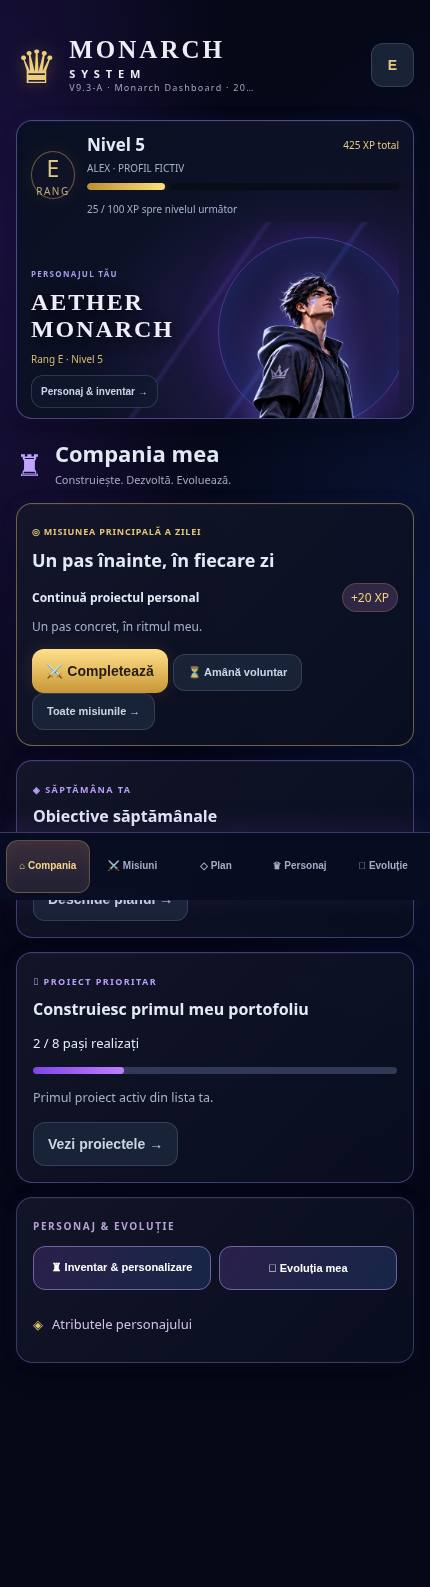
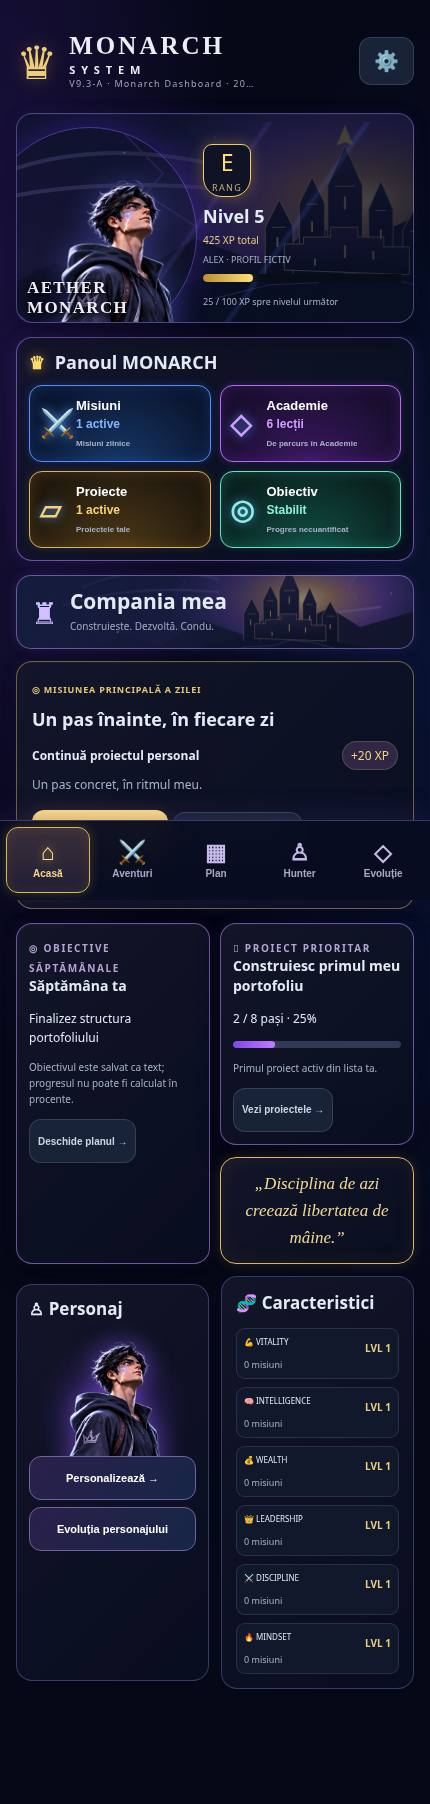
Finalize reference-aligned Monarch panel and cinematic mobile dashboard

diff --git a/app.js b/app.js
@@ -18,8 +18,8 @@ const level=()=>Math.floor(state.xp/100)+1;const ranks=['E','D','C','B','A','S']
 const counts=cat=>state.history.filter(x=>x.category===cat).length;
 function toast(msg){let el=document.createElement('div');el.className='toast';el.textContent=msg;document.body.append(el);setTimeout(()=>el.remove(),2700)}
 const CHARACTER_ART={E:'assets/characters/aether-e.webp',D:'assets/characters/aether-d.webp',C:'assets/characters/aether-c.webp',B:'assets/characters/aether-b.webp',A:'assets/characters/aether-a.webp',S:'assets/characters/aether-s.webp'};
-function header(){return `<header class="top monarch-brand"><span class="brand-crown" aria-hidden="true">♛</span><div><h1>MONARCH<span>SYSTEM</span></h1><small>${esc(window.MONARCH_BUILD)}</small></div><button class="brand-profile secondary" data-tab="hunterpage" aria-label="Personaj și inventar">${rank()}</button></header>`}
-function hero(){const r=rank();return `<section class="card hero monarch-hero" data-rank="${r}"><div class="hero-progress"><span class="rank-seal">${r}<small>RANG</small></span><div class="hero-progress-body"><div class="row"><strong>Nivel ${level()}</strong><span>${state.xp} XP total</span></div><small>${esc(state.player||'Monarch')}</small><div class="xpbar" role="progressbar" aria-label="XP către nivelul următor" aria-valuemin="0" aria-valuemax="100" aria-valuenow="${state.xp%100}"><div style="width:${state.xp%100}%"></div></div><small>${state.xp%100} / 100 XP spre nivelul următor</small></div></div><div class="character-stage"><div class="aether-orbit" aria-hidden="true"></div><div class="character-title"><span class="eyebrow">PERSONAJUL TĂU</span><h2>AETHER<br>MONARCH</h2><p>Rang ${r} · Nivel ${level()}</p><button class="secondary" data-tab="hunterpage">Personaj & inventar →</button></div><img class="aether-character" src="${CHARACTER_ART[r]||'assets/characters/aether-placeholder.svg'}" alt="AETHER MONARCH, rang ${r}" width="900" height="1200"></div></section>`}
+function header(){return `<header class="top monarch-brand"><span class="brand-crown" aria-hidden="true">♛</span><div><h1>MONARCH<span>SYSTEM</span></h1><small>${esc(window.MONARCH_BUILD)}</small></div><button class="brand-profile secondary" data-tab="evolution" aria-label="Evoluție și setări">⚙</button></header>`}
+function hero(){const r=rank();return `<section class="card hero monarch-hero" data-rank="${r}"><div class="hero-progress"><span class="rank-seal">${r}<small>RANG</small></span><div class="hero-progress-body"><div class="row"><strong>Nivel ${level()}</strong><span>${state.xp} XP total</span></div><small>${esc(state.player||'Monarch')}</small><div class="xpbar" role="progressbar" aria-label="XP către nivelul următor" aria-valuemin="0" aria-valuemax="100" aria-valuenow="${state.xp%100}"><div style="width:${state.xp%100}%"></div></div><small>${state.xp%100} / 100 XP spre nivelul următor</small></div></div><div class="character-stage"><div class="aether-orbit" aria-hidden="true"></div><div class="character-title"><span class="eyebrow">PERSONAJUL TĂU</span><h2>AETHER<br>MONARCH</h2><button class="secondary" data-tab="hunterpage">Personaj & inventar →</button></div><img class="aether-character" src="${CHARACTER_ART[r]||'assets/characters/aether-placeholder.svg'}" alt="AETHER MONARCH, rang ${r}" width="900" height="1200"></div></section>`}
 
 function debtCount(){return Object.values(state.debts).reduce((a,b)=>a+b,0)}
 function hunter(){return `<section class="card"><h2>🛡 HUNTER MODE</h2><div class="row"><strong>⚫ Shadow Debt</strong><span class="pill">${debtCount()} amânări</span></div><p class="muted">Amânările sunt urmărite numai dacă alegi explicit «Amână». Pauzele și misiunile de sănătate nu sunt penalizate.</p>${Object.entries(state.debts).filter(([k,v])=>v>0).map(([k,v])=>{let t=[...state.tasks,...state.customTasks].find(x=>x.id===k);return `<div class="quest"><strong>${esc(t?.name||'Misiune')}</strong><p>${v} amânări · ${v>=3?'🐉 BREAK THE CYCLE activ':v>=2?'⚔ Recuperare disponibilă':'Pas mic recomandat'}</p><button class="secondary" data-action="recover" data-id="${esc(k)}">✓ Am realizat un pas mic</button></div>`}).join('')||'<p class="muted">Nicio amânare înregistrată. Continuă în ritmul tău.</p>'}</section>`}
@@ -28,13 +28,14 @@ function unifiedPaths(){try{let a=core.read('monarch-awakening-v2');return (a.pa
 function unifiedGoals(){try{return core.read('monarch-planner-v25').goals||{}}catch{return {}}}
 function missionCards(){const icons={'Finanțe':'💰','Sport':'💪','Organizare':'📅'};return unifiedPaths().map(p=>`<article class="quest unified-mission"><div class="row"><strong>${icons[p]||'⚔'} ${esc(p)}</strong><span class="pill">+20 XP</span></div><p>${['Finanțe','Sport','Organizare','Disciplină'].includes(p)?'Lecție interactivă în 5 etape, cu exemple și verificări.':'Provocare ghidată în 3 etape.'} Recompensa se acordă o singură dată.</p><button data-life25-start="${esc(p)}">⚔ Începe misiunea</button></article>`).join('')}
 function characteristics(){const entries=[['vitality','💪','VITALITY'],['intelligence','🧠','INTELLIGENCE'],['wealth','💰','WEALTH'],['leadership','👑','LEADERSHIP'],['discipline','⚔','DISCIPLINE'],['mindset','🔥','MINDSET']];return `<section class="card"><h2>🧬 Caracteristici</h2><div class="stats">${entries.map(([id,icon,label])=>{const n=counts(id);const lvl=Math.floor(n/5)+1;return `<div class="stat"><span>${icon} ${label}</span><b>LVL ${lvl}</b><small>${n} ${n===1?'misiune':'misiuni'}</small></div>`}).join('')}</div></section>`}
-function home(){const g=unifiedGoals(),task=[...state.tasks,...state.customTasks].find(t=>!state.completed[today()+':'+t.id]&&!state.deferred[today()+':'+t.id]),project=state.bosses.find(b=>!b.claimed);return hero()+`<div class="company-heading"><span class="company-sigil" aria-hidden="true">♜</span><div><h2>Compania mea</h2><p>Construiește. Dezvoltă. Evoluează.</p></div></div><section class="card monarch-daily"><span class="eyebrow">◎ MISIUNEA PRINCIPALĂ A ZILEI</span><h2>${esc(g.today||task?.name||'Alege următorul pas')}</h2>${task?questItems([task]):'<p class="muted">Nu ai misiuni zilnice disponibile. Poți explora lecțiile din Aventură.</p>'}<button class="secondary" data-tab="adventure">Toate misiunile →</button></section><div class="monarch-goal-grid"><section class="card"><span class="eyebrow">◈ SĂPTĂMÂNA TA</span><h2>Obiective săptămânale</h2><p>${esc(g.week||'Nu ai stabilit încă un obiectiv săptămânal.')}</p><button class="secondary" data-tab="plan">Deschide planul →</button></section><section class="card"><span class="eyebrow">↗ PROIECT PRIORITAR</span><h2>${esc(project?.name||'Loc pentru următorul proiect')}</h2>${project?`<p>${project.progress} / ${project.target} pași realizați</p><div class="mini"><div style="width:${Math.min(100,project.progress/project.target*100)}%"></div></div><small>Primul proiect activ din lista ta.</small>`:'<p class="muted">Nu ai proiecte active.</p>'}<button class="secondary" data-adventure="projects">Vezi proiectele →</button></section></div>`+`<section class="card monarch-secondary"><span class="eyebrow">PERSONAJ & EVOLUȚIE</span><div class="secondary-links"><button data-tab="hunterpage">♜ Inventar & personalizare</button><button data-tab="evolution">↗ Evoluția mea</button></div><details><summary>Atributele personajului</summary>${characteristics()}</details></section>`}
+function monarchPanel(g,activeTasks){const available=lessons.filter(l=>!state.academy[l.id]?.done).length+(state.adaptive.promptcraft?.done?0:1),projects=state.bosses.filter(b=>!b.claimed).length;return `<section class="card monarch-panel" id="monarch-panel"><h2><span aria-hidden="true">♛</span> Panoul MONARCH</h2><div class="monarch-panel-grid"><button data-tab="adventure" data-summary="missions"><span class="panel-icon" aria-hidden="true">⚔</span><b>Misiuni</b><strong>${activeTasks.length} active</strong><small>Misiuni zilnice</small></button><button data-adventure="academy" data-summary="academy"><span class="panel-icon" aria-hidden="true">◇</span><b>Academie</b><strong>${available} lecții</strong><small>De parcurs în Academie</small></button><button data-adventure="projects" data-summary="projects"><span class="panel-icon" aria-hidden="true">▱</span><b>Proiecte</b><strong>${projects} active</strong><small>Proiectele tale</small></button><button data-tab="plan" data-summary="goal"><span class="panel-icon" aria-hidden="true">◎</span><b>Obiectiv</b><strong>${g.week?'Stabilit':'Nestabilit'}</strong><small>${g.week?'Progres necuantificat':'Planifică săptămâna'}</small></button></div></section>`}
+function home(){const g=unifiedGoals(),activeTasks=[...state.tasks,...state.customTasks].filter(t=>!state.completed[today()+':'+t.id]&&!state.deferred[today()+':'+t.id]),task=activeTasks[0],project=state.bosses.find(b=>!b.claimed);return hero()+monarchPanel(g,activeTasks)+`<section class="company-heading company-banner"><span class="company-sigil" aria-hidden="true">♜</span><div><h2>Compania mea</h2><p>Construiește. Dezvoltă. Condu.</p></div></section><section class="card monarch-daily"><span class="eyebrow">◎ MISIUNEA PRINCIPALĂ A ZILEI</span><h2>${esc(g.today||task?.name||'Alege următorul pas')}</h2>${task?questItems([task]):'<p class="muted">Nu ai misiuni zilnice disponibile. Explorează lecțiile din Aventuri.</p>'}<button class="secondary" data-tab="adventure">Toate misiunile →</button></section><div class="monarch-company-grid"><section class="card weekly-goal"><span class="eyebrow">◎ OBIECTIVE SĂPTĂMÂNALE</span><h2>Săptămâna ta</h2><p>${esc(g.week||'Nu ai stabilit încă un obiectiv săptămânal.')}</p><small>${g.week?'Obiectivul este salvat ca text; progresul nu poate fi calculat în procente.':'Adaugă un obiectiv în planificare.'}</small><button class="secondary" data-tab="plan">Deschide planul →</button></section><div class="project-column"><section class="card priority-project"><span class="eyebrow">↗ PROIECT PRIORITAR</span><h2>${esc(project?.name||'Următorul tău proiect')}</h2>${project?`<p>${project.progress} / ${project.target} pași · ${Math.min(100,Math.round(project.progress/project.target*100))}%</p><div class="mini"><div style="width:${Math.min(100,project.progress/project.target*100)}%"></div></div><small>Primul proiect activ din lista ta.</small>`:'<p class="muted">Nu ai proiecte active.</p>'}<button class="secondary" data-adventure="projects">Vezi proiectele →</button></section><blockquote class="card monarch-quote">„Disciplina de azi creează libertatea de mâine.”</blockquote></div></div><section class="monarch-secondary"><section class="card character-personalize"><h2>♙ Personaj</h2><div class="portrait-stage"><img class="aether-portrait" src="${CHARACTER_ART[rank()]||'assets/characters/aether-placeholder.svg'}" alt="Portret AETHER MONARCH" width="900" height="1200"></div><div class="secondary-links"><button data-tab="hunterpage">Personalizează →</button><button data-tab="evolution">Evoluția personajului</button></div></section><section class="monarch-attributes">${characteristics()}</section></section>`}
 
 function adventure(){
 const sections=[['missions','⚔ Misiuni'],['academy','📚 Academie'],['projects','🐉 Proiecte']];
 const nav=`<div class="adventure-switch" role="group" aria-label="Categorii Aventură">${sections.map(([id,label])=>`<button type="button" data-adventure="${id}" aria-pressed="${adventureSection===id}" class="${adventureSection===id?'selected':''}">${label}</button>`).join('')}</div>`;
 let content='';
-if(adventureSection==='missions')content=`<section class="card"><span class="eyebrow">⚔ MISIUNILE TALE</span><h2>Următoarele provocări</h2><p class="muted">Alege o misiune pentru a parcurge pașii ghidați.</p>${missionCards()}</section>`;
+if(adventureSection==='missions')content=quests()+`<section class="card"><span class="eyebrow">⚔ MISIUNILE TALE</span><h2>Următoarele provocări</h2><p class="muted">Alege o misiune pentru a parcurge pașii ghidați.</p>${missionCards()}</section>`;
 else if(adventureSection==='academy')content=academy();
 else content=`<section class="card"><span class="eyebrow">🐉 PROIECTE ȘI BOSS</span><h2>Provocările tale pe termen lung</h2>${bossItems()||'<p class="muted">Nu ai proiecte active.</p>'}</section><section class="card"><h2>➕ Proiect nou</h2><form id="bossform"><label>Nume proiect<input name="name" maxlength="65" required placeholder="Ex: Finalizez un curs"></label><label>Număr etape (1–30)<input name="target" type="number" min="1" max="30" value="5" required></label><button>Adaugă proiectul</button></form></section>`;
 return `<section class="adventure-head"><span class="eyebrow">🗺 CAMPANIA TA</span><h2>⚔ Misiuni</h2><p class="muted">Misiuni, învățare și proiecte — o singură destinație.</p>${nav}</section>${content}`;
@@ -73,7 +74,7 @@ function courseAdvance(){let x=courseState();if(x.stage<4){x.stage++;save();rend
 let activeLesson=null;
 function academy(){let done=lessons.filter(l=>state.academy[l.id]?.done).length;return `<section class="card"><h2>📚 Academia Hunter</h2><p class="note">Învață în aplicație, răspunde la întrebări și câștigă XP o singură dată pentru fiecare lecție finalizată.</p><div class="row"><strong>Progres academie</strong><span class="pill">${done}/${lessons.length} lecții</span></div><div class="mini"><div style="width:${100*done/lessons.length}%"></div></div><button class="secondary" id="aw-open">🗺 Lecțiile traseului personalizat</button></section><section class="card"><p class="eyebrow">🧠 ANTRENAMENT AVANSAT</p><h2>Arta prompturilor</h2><p>Lecție aprofundată: teorie, exerciții ghidate, prompt scris de tine și proiect BOSS. Exerciții de aprofundare și proiect practic.</p><button data-action="opencourse">⚔ ${courseState().done?'Revizuiește':'Începe'} PROMPT ENGINEERING</button></section>${lessons.map(l=>`<section class="card"><small class="eyebrow">${esc(l.tag)}</small><h2>${esc(l.title)}</h2><p class="muted">${state.academy[l.id]?.done?'🏆 Finalizată':'⚔ Lecție interactivă'} · ${l.xp} XP</p><button data-action="openlesson" data-id="${l.id}">${state.academy[l.id]?.done?'📖 Recitește':'⚔ Intră în misiune'}</button></section>`).join('')}<section class="card"><h2>🐉 BOSS: ACADEMY INITIATE</h2><p>Finalizează toate cele ${lessons.length} lecții. Nu se acordă XP suplimentar pentru repetări.</p><button data-action="academyboss" ${done!==lessons.length||state.academy.bossClaimed?'disabled':''}>${state.academy.bossClaimed?'🏆 BOSS învins':'🏆 Revendică +100 XP'}</button></section>`}
 function lessonView(){let l=lessons.find(x=>x.id===activeLesson);if(!l){tab='adventure';adventureSection='academy';return adventure()}let st=state.academy[l.id]||{};return `<section class="card"><button class="secondary" data-action="backacademy">← Înapoi</button><p class="eyebrow">${esc(l.tag)}</p><h2>⚔ ${esc(l.title)}</h2><p class="lesson-text">${esc(l.read)}</p><h3>🧩 Provocare</h3><p>${esc(l.question)}</p>${l.choices.map((c,i)=>`<button class="choice ${st.done&&i===l.answer?'correct':''}" data-action="answer" data-id="${l.id}" data-choice="${i}" ${st.done?'disabled':''}>${String.fromCharCode(65+i)}. ${esc(c)}</button>`).join('')}${st.done?`<p class="success">🏆 Lecție finalizată! ${esc(l.why)}</p>`:'<p class="muted">Poți încerca din nou dacă răspunsul nu este corect. Nu pierzi XP.</p>'}</section>`}
-const views={home,adventure,plan:planUnified,hunterpage:hunterUnified,evolution:evolutionUnified,academy,lesson:lessonView,course};function render(){document.getElementById('app').innerHTML=header()+views[tab]()+`<nav class="tabs unified-tabs">${[['home','⌂ Compania'],['adventure','⚔ Misiuni'],['plan','◇ Plan'],['hunterpage','♛ Personaj'],['evolution','↗ Evoluție']].map(([k,n])=>`<button data-tab="${k}" class="${tab===k?'active':''}">${n}</button>`).join('')}</nav>`;document.querySelectorAll('.aether-character').forEach(img=>{img.addEventListener('error',()=>{img.src='assets/characters/aether-placeholder.svg';img.alt='AETHER MONARCH — ilustrație provizorie, rang '+rank();},{once:true});});}
+const views={home,adventure,plan:planUnified,hunterpage:hunterUnified,evolution:evolutionUnified,academy,lesson:lessonView,course};function render(){document.getElementById('app').innerHTML=header()+views[tab]()+`<nav class="tabs unified-tabs">${[['home','Acasă'],['adventure','Aventuri'],['plan','Plan'],['hunterpage','Hunter'],['evolution','Evoluție']].map(([k,n])=>`<button data-tab="${k}" class="${tab===k?'active':''}"><span class="nav-symbol" aria-hidden="true">${({home:"⌂",adventure:"⚔",plan:"▦",hunterpage:"♙",evolution:"◇"})[k]}</span><span>${n}</span></button>`).join('')}</nav>`;document.querySelectorAll('.aether-character,.aether-portrait').forEach(img=>{img.addEventListener('error',()=>{img.src='assets/characters/aether-placeholder.svg';img.alt='AETHER MONARCH — ilustrație provizorie, rang '+rank();},{once:true});});}
 function award(name,xp,category){state.xp+=xp;state.history.push({date:new Date().toISOString(),name,xp,category});save();render();toast(`✨ ${name}: +${xp} XP`)}
 document.addEventListener('click',e=>{let b=e.target.closest('button');if(!b)return;if(b.dataset.adventure){adventureSection=b.dataset.adventure;tab='adventure';render();scrollTo(0,0);return}if(b.dataset.tab){tab=b.dataset.tab;if(tab==='adventure')adventureSection='missions';render();scrollTo(0,0);return}let a=b.dataset.action,id=b.dataset.id;if(a==='opencourse'){tab='course';adventureSection='academy';render();scrollTo(0,0);return}else if(a==='diag'){let x=courseState();if(x.stage!==0)return;if(b.dataset.choice==='0'){x.tries=0;courseAdvance()}else{ x.tries++;save();toast('Indiciu: gândește-te ce informații îi lipsesc celui care scrie reclama.');render()}return}else if(a==='coursenext'){if(courseState().stage===1)courseAdvance();return}else if(a==='guided'){let x=courseState();if(x.stage!==2)return;if(b.dataset.choice==='1'){courseAdvance()}else{x.tries++;save();toast('Caută cererea care indică publicul, lungimea și un exemplu.');render()}return}else if(a==='openlesson'){activeLesson=id;tab='lesson';render();scrollTo(0,0);return}else if(a==='backacademy'){tab='adventure';adventureSection='academy';render();scrollTo(0,0);return}else if(a==='answer'){let l=lessons.find(x=>x.id===id);if(!l||state.academy[id]?.done)return;if(Number(b.dataset.choice)!==l.answer)return toast('Mai încearcă! Recitește explicația.');state.academy[id]={done:true,completedAt:new Date().toISOString()};award('ACADEMY: '+l.title,l.xp,l.tag.startsWith('🧠')?'intelligence':'wealth');return}else if(a==='academyboss'){if(lessons.every(l=>state.academy[l.id]?.done)&&!state.academy.bossClaimed){state.academy.bossClaimed=true;award('BOSS: ACADEMY INITIATE',100,'intelligence')}return}else if(a==='defer'){let t=[...state.tasks,...state.customTasks].find(t=>t.id===id);if(!t||!['intelligence','wealth','leadership','discipline'].includes(t.category))return;let key=today()+':'+id;if(state.deferred[key]||state.completed[key])return toast('Misiunea a fost deja gestionată astăzi');state.deferred[key]=true;state.debts[id]=(state.debts[id]||0)+1;save();render();toast(state.debts[id]>=3?'🐉 BREAK THE CYCLE: începe cu un pas mic':'Amânare înregistrată fără pierdere de XP');}else if(a==='recover'){if(!(state.debts[id]>0))return;let key=today()+':recover:'+id;if(state.recovery[key])return toast('Ai recuperat deja astăzi');state.recovery[key]=true;state.debts[id]--;award('BREAK THE CYCLE — pas mic',10,'discipline');}else if(a==='remove'){if(!confirm('Ștergi această misiune personalizată?'))return;state.customTasks=state.customTasks.filter(t=>t.id!==id);save();render();}else if(a==='complete'){let t=[...state.tasks,...state.customTasks].find(t=>t.id===id);if(!t||state.completed[`${today()}:${id}`]||state.deferred[`${today()}:${id}`])return;state.completed[`${today()}:${id}`]=true;award(t.name,t.xp,t.category)}else if(a==='bossstep'){let x=state.bosses.find(b=>b.id===id);if(x&&x.progress<x.target){x.progress++;save();render();toast('Pas BOSS înregistrat')}}else if(a==='bossclaim'){let x=state.bosses.find(b=>b.id===id);if(x&&x.progress>=x.target&&!x.claimed){x.claimed=true;award(`BOSS: ${x.name}`,x.reward,'discipline')}}else if(a==='rename'){state.player=document.getElementById('playername').value.trim()||'PLAYER 001';save();render()}else if(a==='export'){let blob=new Blob([JSON.stringify(state,null,2)],{type:'application/json'}),u=URL.createObjectURL(blob),a=document.createElement('a');a.href=u;a.download='monarch-backup-'+today()+'.json';a.click();setTimeout(()=>URL.revokeObjectURL(u),1000)}else if(a==='import'){document.getElementById('importfile').click()}});
 document.addEventListener('submit',e=>{if(['courseform','bossacademyform'].includes(e.target.id)){e.preventDefault();let x=courseState(),v=String(new FormData(e.target).get('prompt')||'').trim();if(e.target.id==='courseform'&&x.stage===3){x.notes=v;save();if(v.length<70)return toast('Adaugă mai multe detalii despre sarcină, context și format.');courseAdvance();return}if(e.target.id==='bossacademyform'&&x.stage===4&&!x.done){if(v.length<110)return toast('Descrie mai clar proiectul și cerințele.');x.result=v;x.done=true;award('ADAPTIVE: PROMPT ARCHITECT',module13.xp,'intelligence');return}return}if(!['taskform','healthform','financeform','bossform'].includes(e.target.id))return;e.preventDefault();let d=Object.fromEntries(new FormData(e.target).entries());if(e.target.id==='bossform'){if(state.bosses.filter(b=>!b.claimed).length>=5)return toast('Maximum 5 BOSS activi');state.bosses.push({id:'boss-'+Date.now(),name:d.name.trim(),target:Math.min(30,Math.max(1,Number(d.target)||5)),progress:0,reward:150,claimed:false});toast('BOSS adăugat');}if(e.target.id==='taskform'){if(!d.name.trim())return;state.customTasks.push({id:'custom-'+Date.now(),name:d.name.trim(),detail:d.detail,xp:15,category:d.category,daily:true});toast('Misiune adăugată')}if(e.target.id==='healthform'){if(![d.activity,d.food,d.sleep,d.weight].some(x=>x.trim()))return toast('Completează cel puțin un câmp');state.logs.push({...d,date:new Date().toISOString()});toast('Jurnal salvat')}if(e.target.id==='financeform'){state.finance.push({note:d.note,date:new Date().toISOString()});toast('Notă salvată')}save();render()});

diff --git a/style.css b/style.css
@@ -93,3 +93,8 @@ html{scroll-padding-bottom:180px}
 body{background:radial-gradient(ellipse at 0 15%,#5025a047,transparent 38%),radial-gradient(ellipse at 100% 38%,#153b9738,transparent 42%),#050817}.monarch-brand{display:flex;gap:12px;align-items:center;padding:16px 0 8px}.brand-crown{font-size:46px;line-height:1;color:#edcf7b;text-shadow:0 0 18px #e9ba4e50}.monarch-brand h1{font-family:Georgia,serif;font-size:25px;letter-spacing:.12em;margin:0;color:#eeedf5}.monarch-brand h1 span{display:block;font-family:system-ui;font-size:11px;letter-spacing:.53em;margin-top:2px}.monarch-brand small{font-size:9px;letter-spacing:.14em;color:#a6a5ba}.brand-profile{margin-left:auto!important;min-width:43px;color:#e3ca82!important}.card{background:linear-gradient(135deg,#15172bdf,#090e20ed);border:1px solid #6f6bb575;box-shadow:inset 0 1px 0 #b5a5ff0c,0 0 18px #6d49d915,0 12px 25px #0005;border-radius:16px}.card h2{font-size:17px}.monarch-hero{padding:12px 14px 0;margin-top:12px;background:radial-gradient(ellipse at 75% 75%,#46339575,transparent 55%),linear-gradient(130deg,#0a1023,#101227);border-color:#8a79db80}.hero-progress{display:flex;gap:12px;align-items:center;position:relative;z-index:3}.rank-seal{width:44px;height:48px;flex-shrink:0;border-radius:50%;font-size:23px;background:#101325;box-shadow:0 0 20px #d4ab3d16}.hero-progress-body{flex:1;min-width:0}.hero-progress .row{gap:8px;align-items:center}.hero-progress strong{font-size:17px}.hero-progress .row span{font-size:10px;color:#e5cd82}.hero-progress small{font-size:10px}.hero-progress .xpbar{margin:7px 0;height:7px}.xpbar>div{background:linear-gradient(90deg,#ba8e32,#ffdf79);box-shadow:0 0 12px #f6ce5b55}.character-stage{height:196px;display:block;isolation:isolate;overflow:hidden;margin-top:5px}.aether-character{position:absolute;width:345px;max-width:none;height:460px;right:-76px;top:-82px;object-fit:contain;z-index:1;filter:drop-shadow(0 0 15px #7375ff60)!important}.character-title{position:absolute;left:0;top:39px;z-index:2;max-width:53%}.character-title .eyebrow{font-size:8px;color:#aa9be9}.character-title h2{font-family:Georgia,serif;font-size:24px;letter-spacing:.08em;line-height:1.14;margin:8px 0;color:#eeedf9;text-shadow:0 2px 16px #000}.character-title p{font-size:10px;color:#d8bd6d;margin:8px 0}.character-title button{font-size:10px;padding:7px 9px;min-height:33px;background:#11172dd9}.aether-orbit{width:190px;height:190px;right:-9px;top:15px;border-color:#8e6fff66;box-shadow:0 0 45px #652dce55,inset 0 0 35px #274bd34a}.character-stage::after{content:'';position:absolute;inset:0;z-index:0;pointer-events:none;background:linear-gradient(125deg,transparent 46%,#8d60f026 47%,transparent 48%,transparent 65%,#4d72f52e 66%,transparent 67%)}.company-heading{display:flex;align-items:center;gap:12px;margin:19px 0 12px}.company-sigil{font-size:30px;color:#c1a2ff}.company-heading h2{font-size:22px;margin:0}.company-heading p{font-size:11px;color:#a5a9c1;margin:4px 0}.monarch-shortcuts{display:none}.hunter24-home{display:none}.monarch-daily{border-color:#a08c53aa;padding:15px;margin-top:0}.monarch-daily>.eyebrow{color:#e3c876;font-size:9px;letter-spacing:.09em}.monarch-daily>h2{font-size:18px;margin:9px 0}.monarch-daily .quest .row strong{font-size:12px}.monarch-daily .quest p{font-size:12px;line-height:1.5}.monarch-daily .quest .pill{color:#f3d47c;background:#302747;border:1px solid #98774d66}.monarch-daily button[data-action=complete]{background:linear-gradient(#ffe08c,#c99636);color:#251c13;font-weight:750;box-shadow:0 0 18px #dca83e22}.monarch-daily .secondary{font-size:11px;min-height:37px}.monarch-goal-grid .card{padding:16px;border-color:#7564bd88}.monarch-goal-grid .eyebrow{color:#b6a0f2;font-size:9px}.monarch-goal-grid h2{font-size:16px;margin-top:8px}.monarch-goal-grid p{font-size:13px;line-height:1.6}.mini>div{background:linear-gradient(90deg,#8144e8,#c27eff);box-shadow:0 0 10px #9457e666}.monarch-secondary{padding:16px}.secondary-links{display:grid;grid-template-columns:1fr 1fr;gap:8px;margin:12px 0}.secondary-links button{font-size:11px;background:linear-gradient(125deg,#2b204b,#162647);border:1px solid #71649e}.monarch-secondary summary{cursor:pointer;font-size:13px;color:#cfbfeb;min-height:44px;display:flex;align-items:center}.monarch-secondary summary::before{content:'◈';margin-right:9px;color:#e0c370}.monarch-secondary .card{box-shadow:none;padding:12px;margin:8px 0}.unified-tabs{background:#080d20f5!important;box-shadow:0 -5px 28px #6440a52e!important;border-top:1px solid #7163a980!important}.unified-tabs button{background:transparent;color:#a8a9c6;font-size:10px!important;min-height:46px}.unified-tabs button.active{color:#f3d689;background:linear-gradient(#3a2e3b,#211f34);border:1px solid #b7985666;box-shadow:inset 0 0 15px #e0bd3e0c}.life25-panel,.hunter23-panel{background:linear-gradient(140deg,#19152b,#0c1428);border-color:#8c6bd2}.quest,.unified-mission{border-color:#6f60a755;background:#16182b7d}.adventure-switch button.selected{background:linear-gradient(120deg,#523181,#213e78)}
 @media(min-width:600px){.character-stage{height:240px}.aether-character{width:405px;height:540px;right:-20px;top:-98px}.character-title{left:22px;top:50px}.character-title h2{font-size:34px}.aether-orbit{right:65px;width:220px;height:220px}.monarch-goal-grid{grid-template-columns:1fr 1fr}}
 .monarch-brand small{display:block;max-width:185px;white-space:nowrap;overflow:hidden;text-overflow:ellipsis}
+
+/* Final approved hierarchy: cinematic hero, data-driven 2×2 Monarch panel. */
+.monarch-hero{padding:8px 10px 0;min-height:210px;background:linear-gradient(90deg,#090d2280,#080e24c9),url('assets/monarch-castle.svg') center/cover}.monarch-hero .character-stage{height:200px;margin:0;overflow:visible}.monarch-hero .hero-progress{position:absolute;left:47%;right:10px;top:30px;display:block;z-index:4}.monarch-hero .rank-seal{height:53px;width:48px;margin-bottom:9px;border-radius:9px 9px 19px 19px;border:1px solid #efcd67;color:#ffdc6f;box-shadow:0 0 15px #c59b3366}.hero-progress .hero-progress-body>.row{display:block}.hero-progress strong{font-size:18px;display:block}.hero-progress .row span{display:block;margin-top:5px;font-size:10px}.hero-progress small{font-size:9px;line-height:1.5}.hero-progress .xpbar{height:8px}.monarch-hero .aether-character{width:410px;height:547px;left:-133px;right:auto;top:-99px;z-index:1}.monarch-hero .aether-orbit{left:-45px;right:auto;top:5px;width:215px;height:215px;border-color:#7354dc99;box-shadow:0 0 35px #6030ed55}.monarch-hero .character-title{left:0;top:auto;bottom:5px;max-width:46%;pointer-events:none}.character-title .eyebrow,.character-title button{display:none}.character-title h2{font-size:17px;margin:0;text-shadow:0 2px 5px #000,0 0 14px #000}.monarch-brand{padding:12px 0 5px}.brand-profile{font-size:20px}.monarch-panel{padding:12px;margin:12px 0 14px;border-color:#9d7be2a0;box-shadow:0 0 16px #8945d52e,inset 0 0 18px #6f56c50a}.monarch-panel h2{font-size:18px;margin:0 0 10px}.monarch-panel h2>span{color:#ffda6c;margin-right:5px;text-shadow:0 0 12px #e9b53d99}.monarch-panel-grid{display:grid;grid-template-columns:1fr 1fr;gap:9px}.monarch-panel-grid button{position:relative;display:grid;grid-template-columns:36px 1fr;text-align:left;align-items:center;padding:10px;min-height:77px;background:radial-gradient(ellipse at 50% 120%,#2363ab7a,transparent 80%),#0b1631;border:1px solid #588ef4;border-radius:13px;box-shadow:inset 0 0 13px #2559ba55,0 0 9px #236deb44}.panel-icon{grid-row:1/4;font-size:28px;color:#b4d2ff;text-shadow:0 0 10px #4d8be8}.monarch-panel-grid b{font-size:13px;font-weight:650}.monarch-panel-grid strong{font-size:12px;color:#80b5ff}.monarch-panel-grid small{font-size:8px;line-height:1.4;margin-top:3px}.monarch-panel-grid [data-summary=academy]{background:radial-gradient(ellipse at 50% 120%,#6b24a778,transparent 80%),#180e2e;border-color:#ad71ee;box-shadow:inset 0 0 14px #6e2cad55,0 0 10px #b155ec33}.monarch-panel-grid [data-summary=academy] strong,.monarch-panel-grid [data-summary=academy] .panel-icon{color:#ce9fff}.monarch-panel-grid [data-summary=projects]{background:radial-gradient(ellipse at 50% 120%,#86632475,transparent 80%),#21190e;border-color:#d7b55e;box-shadow:inset 0 0 14px #ae722f44,0 0 10px #e6b55022}.monarch-panel-grid [data-summary=projects] strong,.monarch-panel-grid [data-summary=projects] .panel-icon{color:#f5d279}.monarch-panel-grid [data-summary=goal]{background:radial-gradient(ellipse at 50% 120%,#188f7a75,transparent 80%),#0a211e;border-color:#62e6c0;box-shadow:inset 0 0 14px #39bca944,0 0 10px #3cddb422}.monarch-panel-grid [data-summary=goal] strong,.monarch-panel-grid [data-summary=goal] .panel-icon{color:#8df2d5}.company-banner{position:relative;min-height:64px;margin:12px 0;padding:11px 14px;border:1px solid #9c83db99;border-radius:15px;background:linear-gradient(90deg,#141c3df2,#0b102252),url('assets/monarch-castle.svg') 60% 57%/cover;box-shadow:0 0 12px #7954be33;overflow:hidden}.company-banner h2{font-size:21px;position:relative;z-index:1}.company-banner p{font-size:10px;position:relative;z-index:1}.company-banner .company-sigil{color:#d0c0ff}.monarch-company-grid{display:grid;grid-template-columns:1fr;gap:12px;margin:12px 0}.monarch-company-grid .card{margin:0;padding:15px}.monarch-company-grid h2{font-size:16px;line-height:1.45}.monarch-company-grid p{font-size:13px;line-height:1.6}.monarch-company-grid small{font-size:10px;line-height:1.6;display:block}.monarch-company-grid button{margin-top:12px;font-size:11px}.weekly-goal{border-color:#ab83ee99}.priority-project{border-color:#ad7ff299}.project-column{display:grid;gap:12px}.monarch-quote{border-color:#dbb46a!important;color:#efd997;font-family:Georgia,serif;font-style:italic;text-align:center;font-size:17px;line-height:1.6;box-shadow:inset 0 0 20px #ae69341c,0 0 13px #c4973e2e}.monarch-secondary{background:none;border:0;padding:0;display:grid;gap:12px}.character-personalize{position:relative;overflow:hidden;margin:0;padding:14px;min-height:238px}.character-personalize h2{position:relative;z-index:2;margin:0}.portrait-stage{height:135px;position:relative;overflow:hidden;background:radial-gradient(ellipse at 50% 70%,#6c3acf55,transparent 65%)}.aether-portrait{position:absolute;width:330px;max-width:none;height:440px;left:50%;transform:translateX(-50%);top:-106px;object-fit:contain;filter:drop-shadow(0 0 12px #8b57ed99)}.character-personalize .secondary-links{position:relative;z-index:2;display:grid;grid-template-columns:1fr;margin:0;gap:7px}.monarch-attributes>.card{margin:0;padding:14px}.monarch-attributes .stats{display:grid;grid-template-columns:1fr;gap:8px}.monarch-attributes .stat{display:grid;grid-template-columns:1fr auto;gap:3px;text-align:left;padding:9px;background:#11182c;border:1px solid #7370aa44;border-radius:9px}.monarch-attributes .stat span{font-size:10px}.monarch-attributes .stat b{font-size:12px;color:#e7ce82}.monarch-attributes .stat small{font-size:9px;grid-column:1/-1}.monarch-daily .quest button{min-height:44px}.unified-tabs{padding-top:6px!important;padding-bottom:calc(7px + env(safe-area-inset-bottom,0px))!important}.unified-tabs button{display:grid;align-content:center;justify-items:center;gap:3px;font-size:10px!important;min-height:52px;line-height:1.2}.nav-symbol{font-size:23px;line-height:1.1;color:#c5b9e7}.unified-tabs button.active .nav-symbol{color:#ffe58e;text-shadow:0 0 10px #dfb14f}.unified-tabs button.active{border-color:#d8b458;box-shadow:0 0 12px #d8ac4440,inset 0 0 12px #e0b93a1c}#app{padding-bottom:calc(115px + env(safe-area-inset-bottom,0px))!important}
+@media(min-width:390px){.monarch-company-grid{grid-template-columns:1fr 1fr;gap:10px}.monarch-company-grid .card{padding:12px}.monarch-company-grid h2{font-size:14px}.monarch-company-grid p{font-size:12px}.monarch-company-grid button{font-size:10px;padding:8px}.monarch-secondary{grid-template-columns:1fr 1fr}.monarch-attributes .stat{padding:7px}.monarch-attributes .stat span{font-size:8px}.monarch-attributes .stat b{font-size:10px}.monarch-hero .aether-character{left:-117px}.hero-progress .rank-seal{float:left;margin:0 8px 7px 0}.hero-progress .hero-progress-body{clear:both}}
+@media(min-width:600px){.monarch-panel-grid{grid-template-columns:repeat(4,1fr)}.monarch-hero{min-height:255px}.monarch-hero .character-stage{height:245px}.monarch-hero .aether-character{width:470px;height:627px;left:-90px;top:-120px}.monarch-hero .hero-progress{top:45px;left:52%;right:25px}.monarch-hero .character-title{left:45px}.monarch-hero .character-title h2{font-size:24px}}

diff --git a/index.html b/index.html
@@ -1,2 +1,2 @@
-<!doctype html><html lang="ro"><head><meta charset="utf-8"><meta name="viewport" content="width=device-width,initial-scale=1,viewport-fit=cover"><meta name="theme-color" content="#090d1b"><title>MONARCH — Life Ascension</title><link rel="stylesheet" href="style.css?v=monarch-v93a-aether-20261031"></head><body><div id="app"></div><script src="https://telegram.org/js/telegram-web-app.js?v=characteristics-restore-20261030"></script><script src="lesson-ids.js?v=monarch-v93a-aether-20261031"></script><script src="progress-core.js?v=monarch-v93a-aether-20261031"></script><script src="progress-shield.js?v=monarch-v93a-aether-20261031"></script><script src="app.js?v=monarch-v93a-aether-20261031"></script><script src="awakening.js?v=monarch-v93a-aether-20261031"></script><script src="hunter24.js?v=monarch-v93a-aether-20261031"></script><script src="life25.js?v=monarch-v93a-aether-20261031"></script></body></html>
+<!doctype html><html lang="ro"><head><meta charset="utf-8"><meta name="viewport" content="width=device-width,initial-scale=1,viewport-fit=cover"><meta name="theme-color" content="#090d1b"><title>MONARCH — Life Ascension</title><link rel="stylesheet" href="style.css?v=monarch-v93a-final-20261031"></head><body><div id="app"></div><script src="https://telegram.org/js/telegram-web-app.js?v=characteristics-restore-20261030"></script><script src="lesson-ids.js?v=monarch-v93a-final-20261031"></script><script src="progress-core.js?v=monarch-v93a-final-20261031"></script><script src="progress-shield.js?v=monarch-v93a-final-20261031"></script><script src="app.js?v=monarch-v93a-final-20261031"></script><script src="awakening.js?v=monarch-v93a-final-20261031"></script><script src="hunter24.js?v=monarch-v93a-final-20261031"></script><script src="life25.js?v=monarch-v93a-final-20261031"></script></body></html>
 

diff --git a/V93_DASHBOARD.md b/V93_DASHBOARD.md
@@ -19,3 +19,25 @@ Capturile 360/390/430px din docs/screenshots/dashboard-*.jpg au fost comparate c
 ## Teste și limite
 
 108 teste Node; 18 combinații viewport/rang (360/390/430 × E–S), cu verificarea resursei, fallbackului, XP real, overflow, reduced motion, un singur nav, inventar, navigare și lipsa scrierilor în profil. Integrarea Progress Core rămâne testată separat. Toate capturile și scrierile de test folosesc profiluri fictive. Testele Chromium nu certifică Telegram Android real. Nu se modifică chei localStorage, reguli XP, recompense, echipamente, lecții sau planificare. Nu se face merge/deploy automat.
+
+## Redesign final — referința aprobată
+
+Zona superioară folosește o singură insignă de rang și o singură afișare a nivelului, alături de XP-ul real și forma E–S. Butonul din brand este acces către setări/evoluție, fără al doilea rang. Nu se afișează streak sau un progres săptămânal fictiv.
+
+Panoul MONARCH: carduri albastre/violet/aurii/turcoaz într-o grilă 2×2. Misiuni = tasks + customTasks nefinalizate și neamânate astăzi; Academie = lecțiile fixe nefinalizate + cursul promptcraft dacă nu este finalizat (nu toate activitățile Awakening); Proiecte = bosses fără claimed; Obiectiv = existența textului săptămânal. Textul de obiectiv nu are criterii/checklist măsurabile, deci nu se inventează un procent. Progresul proiectului este raportul real progress/target. Mesajul motivațional este static, fără valoare de progres.
+
+Compania mea include banner cu castel, misiune, obiectiv săptămânal, primul proiect activ, mesaj motivațional, portret/personalizare și atribute reale. La 390/430px cardurile companiei și zona secundară pot folosi două coloane; la 360px păstrează lizibilitatea prin stivuire. Navigarea permanentă unică este Acasă / Aventuri / Plan / Hunter / Evoluție, mapată la aceleași data-tab existente.
+
+### Castel și resurse lipsă
+
+Repository-ul nu conține picturile panoramice din referință. assets/monarch-castle.svg este un decor vectorial original, provizoriu, creat pentru această compoziție (castel, munți, cer violet și lumină aurie), nu o imagine aleatorie și nici imaginea de referință integrală. Nu este o reproducere fotorealistă a castelului aprobat și nu folosește elemente Solo Leveling.
+
+Pentru fidelitatea finală sunt necesare două ilustrații originale/autorizate:
+- assets/scenes/monarch-castle-hero.webp: aproximativ 1600×700 px, cetate gotică pe creastă, cer bleumarin, lumină violet/albastru electric, puncte aurii; spațiu întunecat pentru text/rang în centru-dreapta și personaj în stânga.
+- assets/scenes/monarch-company-panorama.webp: aproximativ 1600×400 px, castel auriu pe stâncă în dreapta, apus violet/albastru, jumătatea stângă liberă pentru titlul Compania mea.
+
+Diferențe rămase: decorul este vectorial, nu pictat; energia este realizată în CSS, fără creatura/dragonul din referință (resursă originală separată nepusă la dispoziție); iconografia și portretele sunt adaptate la dimensiunile telefonului. Nu se vor substitui bare numerice demonstrative pentru a imita compoziția.
+
+Verificări finale: 108 teste Node, 18 combinații ecran/rang, fallback, valori reale și stări goale, cele patru acțiuni ale panoului, etichetele meniului, conținut accesibil la finalul paginii fără acoperire de meniu, reduced motion și lipsa erorilor/scrierilor la navigare. Suitele Core, Shield, backup și compatibilitatea celor 26 de profiluri istorice sunt rulate separat. Capturile JPG sunt regenerate și inspectate față de referință; profilul din capturi este fictiv.
+
+Cardul Misiuni deschide lista zilnică reală (componenta quests existentă) împreună cu lecțiile ghidate din Aventuri, astfel încât numărul afișat corespunde misiunilor accesibile. Nu se modifică handler-ele de finalizare sau recompensele.
